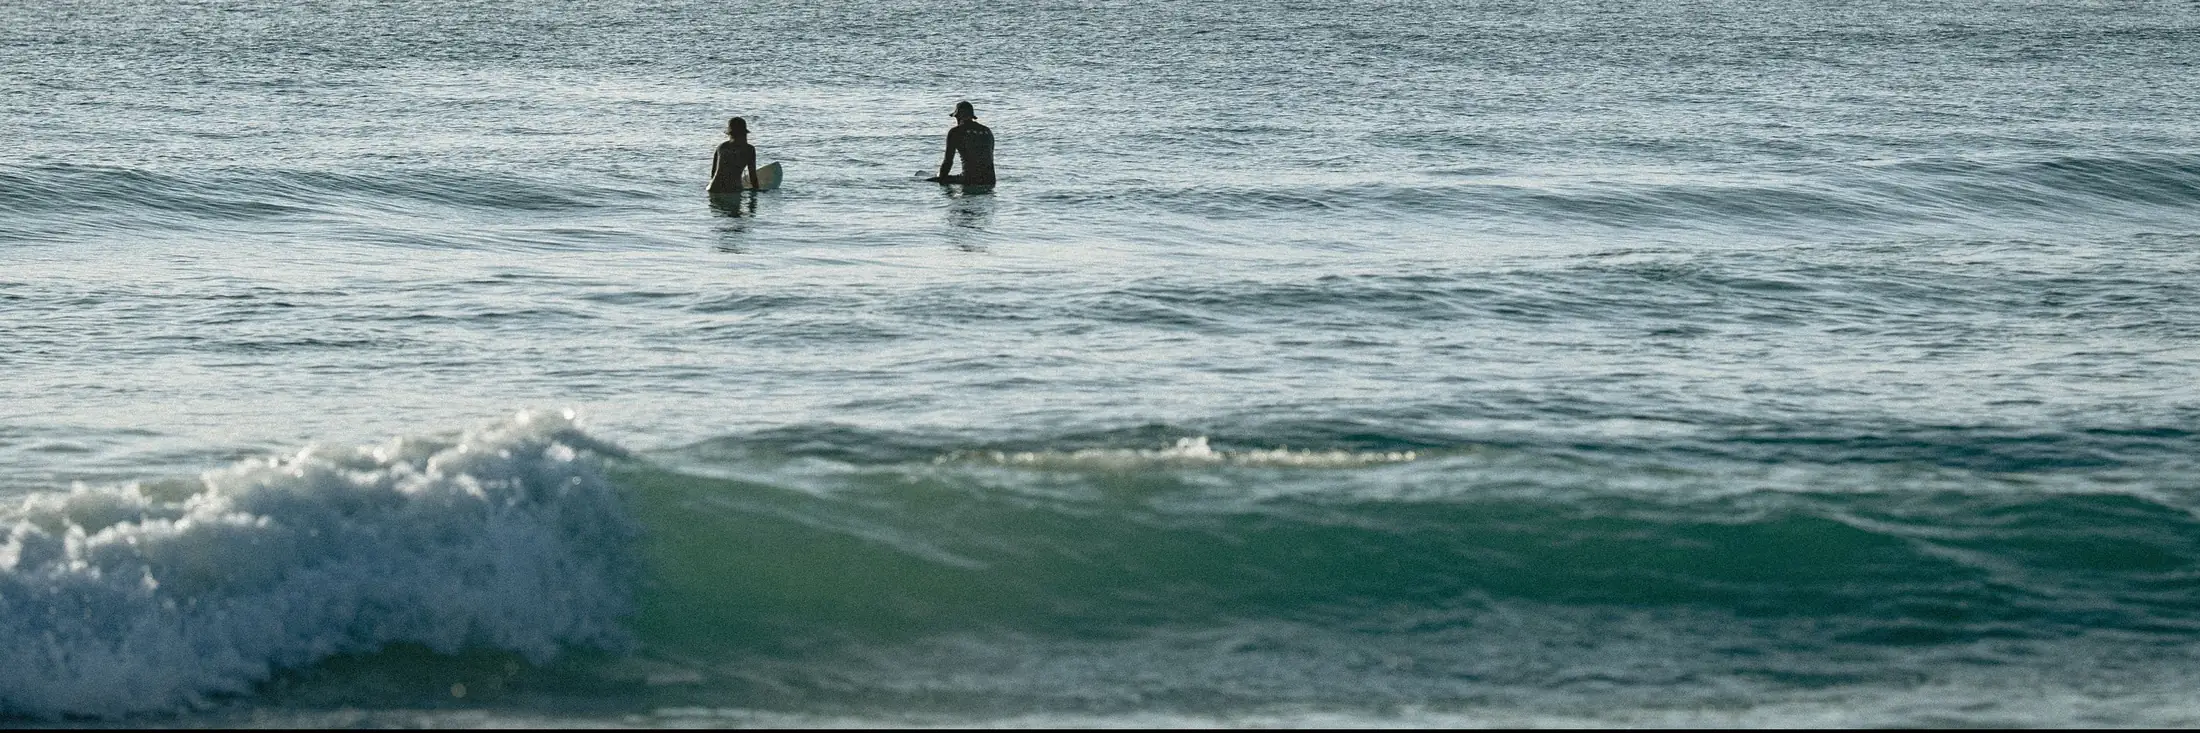
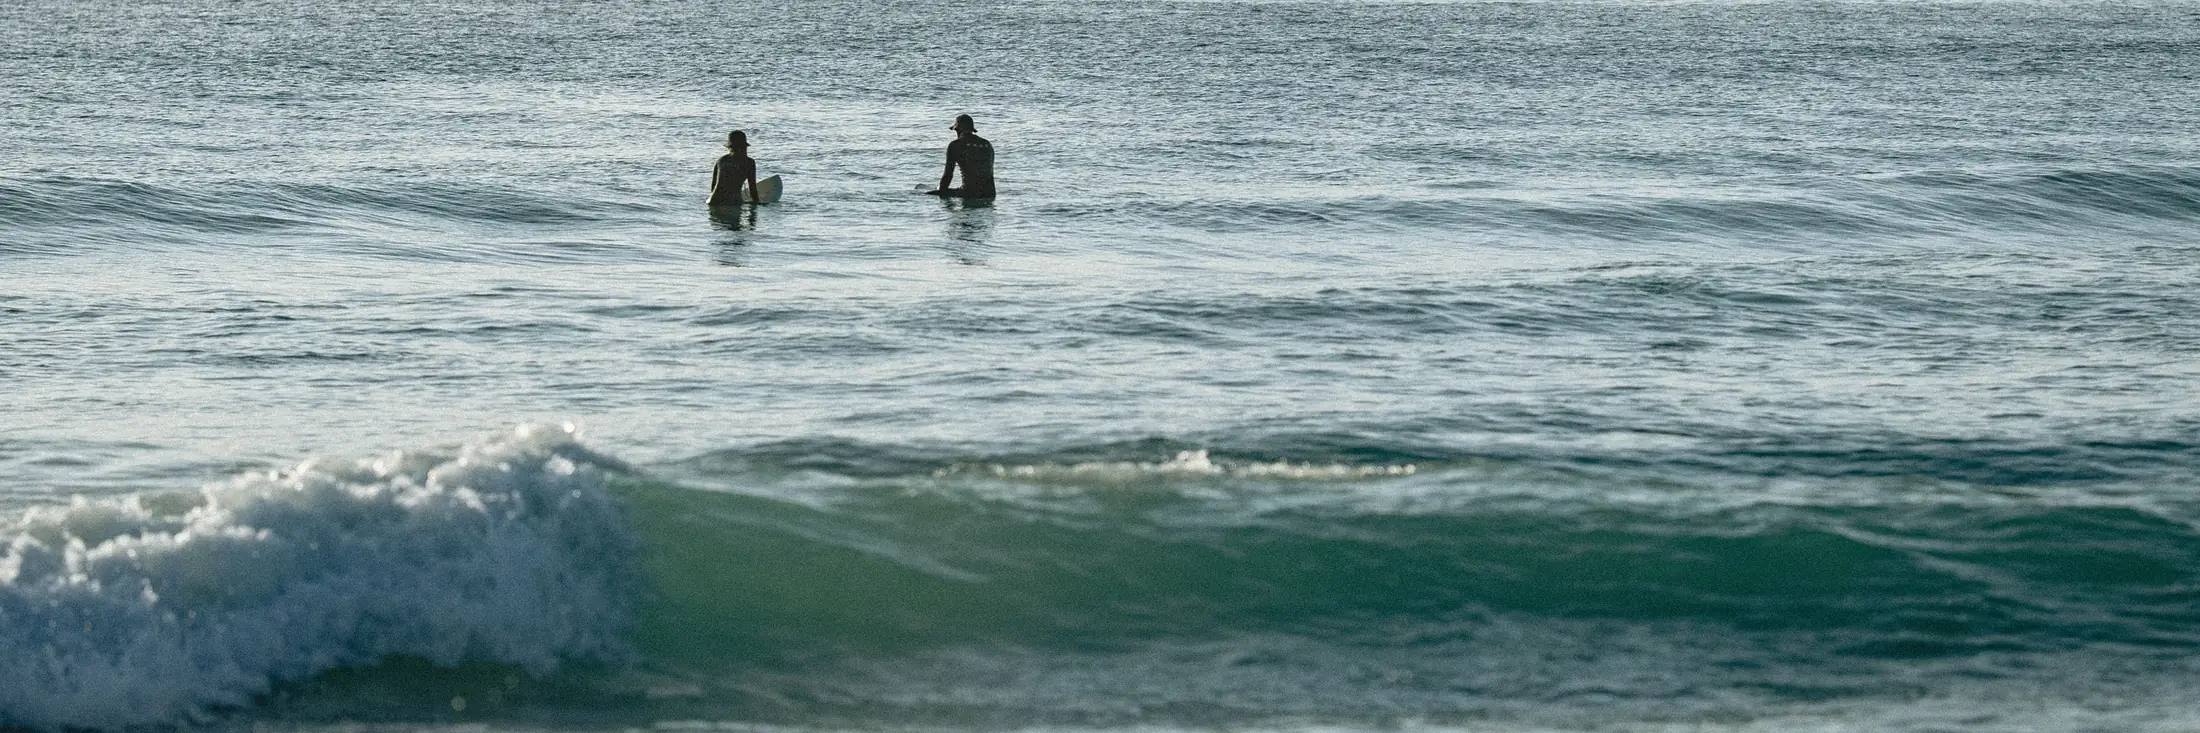
fix(onda): banda cresce com a largura e deixa de cortar a fotografia
A altura estava travada em clamp(220px,30vw,470px). Num monitor de 2000px isso
da uma caixa de 4,3:1 para uma fotografia de 3:1, portanto o `cover` cortava
30% na vertical -- e o que sobrava punha os surfistas a 10% da altura e a
crista a 85%, ou seja, ambos dentro dos desvanecimentos. Ficava so agua.

Agora `clamp(220px, 33.34vw, 800px)`: os 33,34vw sao o racio 3:1 da fotografia,
logo em ecra largo a banda cresce com a largura e nao ha corte vertical
(verificado a 2000px: caixa 1989x667, racio 2,98 vs 3,00 da imagem). Em mobile
manda o minimo de 220px e o corte passa a ser horizontal, que nao perde o
motivo. Os desvanecimentos encurtam de 16%/82% para 11%/89%, que estavam a
comer os surfistas e a crista.

A onda.webp foi reenquadrada centrada no conjunto surfistas + crista, e corrige
um defeito do recorte anterior: pedia 5 linhas para alem do limite da original
(2000px) e a Pillow preencheu a preto no fundo.

diff --git a/index.html b/index.html
@@ -398,10 +398,17 @@ section[id], form[id] { scroll-margin-top: 80px; }
    é feito aqui, a desvanecer para o branco das secções de cima e de baixo. */
 .photo-full { width: 100%; display: block; }
 .photo-full img {
-  width: 100%; height: clamp(220px,30vw,470px); object-fit: cover; display: block;
+  width: 100%; display: block; object-fit: cover;
+  /* 33.34vw = o rácio 3:1 da fotografia: em ecrã largo a banda cresce com a
+     largura e o `cover` NÃO corta na vertical. Com a altura travada em 470px
+     um monitor de 2000px cortava 30% da foto e os surfistas e a crista caíam
+     dentro dos desvanecimentos — parecia água ao calhas. Em mobile o mínimo
+     de 220px manda e o corte passa a ser na horizontal, que não perde nada. */
+  height: clamp(220px, 33.34vw, 800px);
+  /* esbatimento mais curto do que a versão anterior (16%/18% comiam o motivo) */
   --fade: linear-gradient(180deg,
-            transparent 0%, rgba(0,0,0,.55) 5%, #000 16%,
-            #000 82%, rgba(0,0,0,.55) 95%, transparent 100%);
+            transparent 0%, rgba(0,0,0,.55) 4%, #000 11%,
+            #000 89%, rgba(0,0,0,.55) 96%, transparent 100%);
   -webkit-mask-image: var(--fade);
           mask-image: var(--fade);
 }
